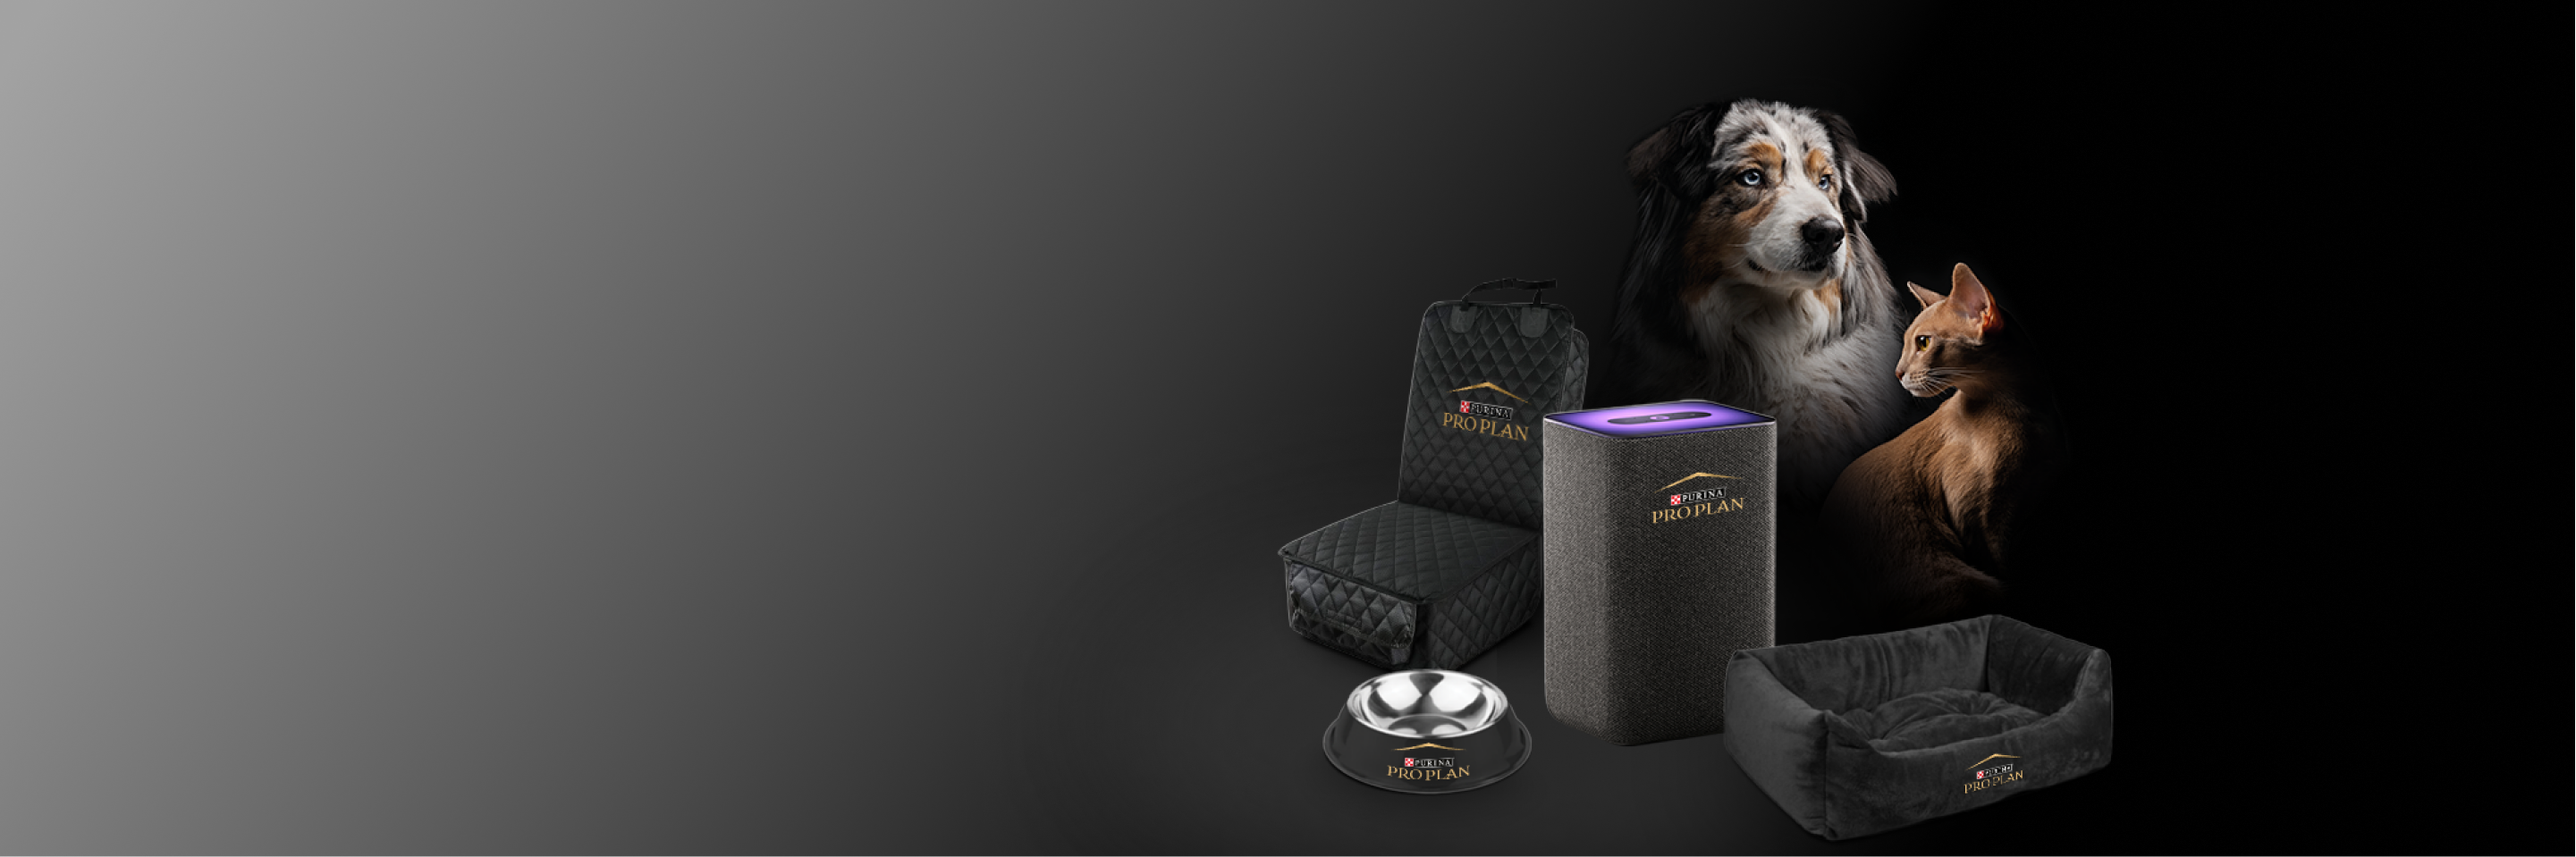
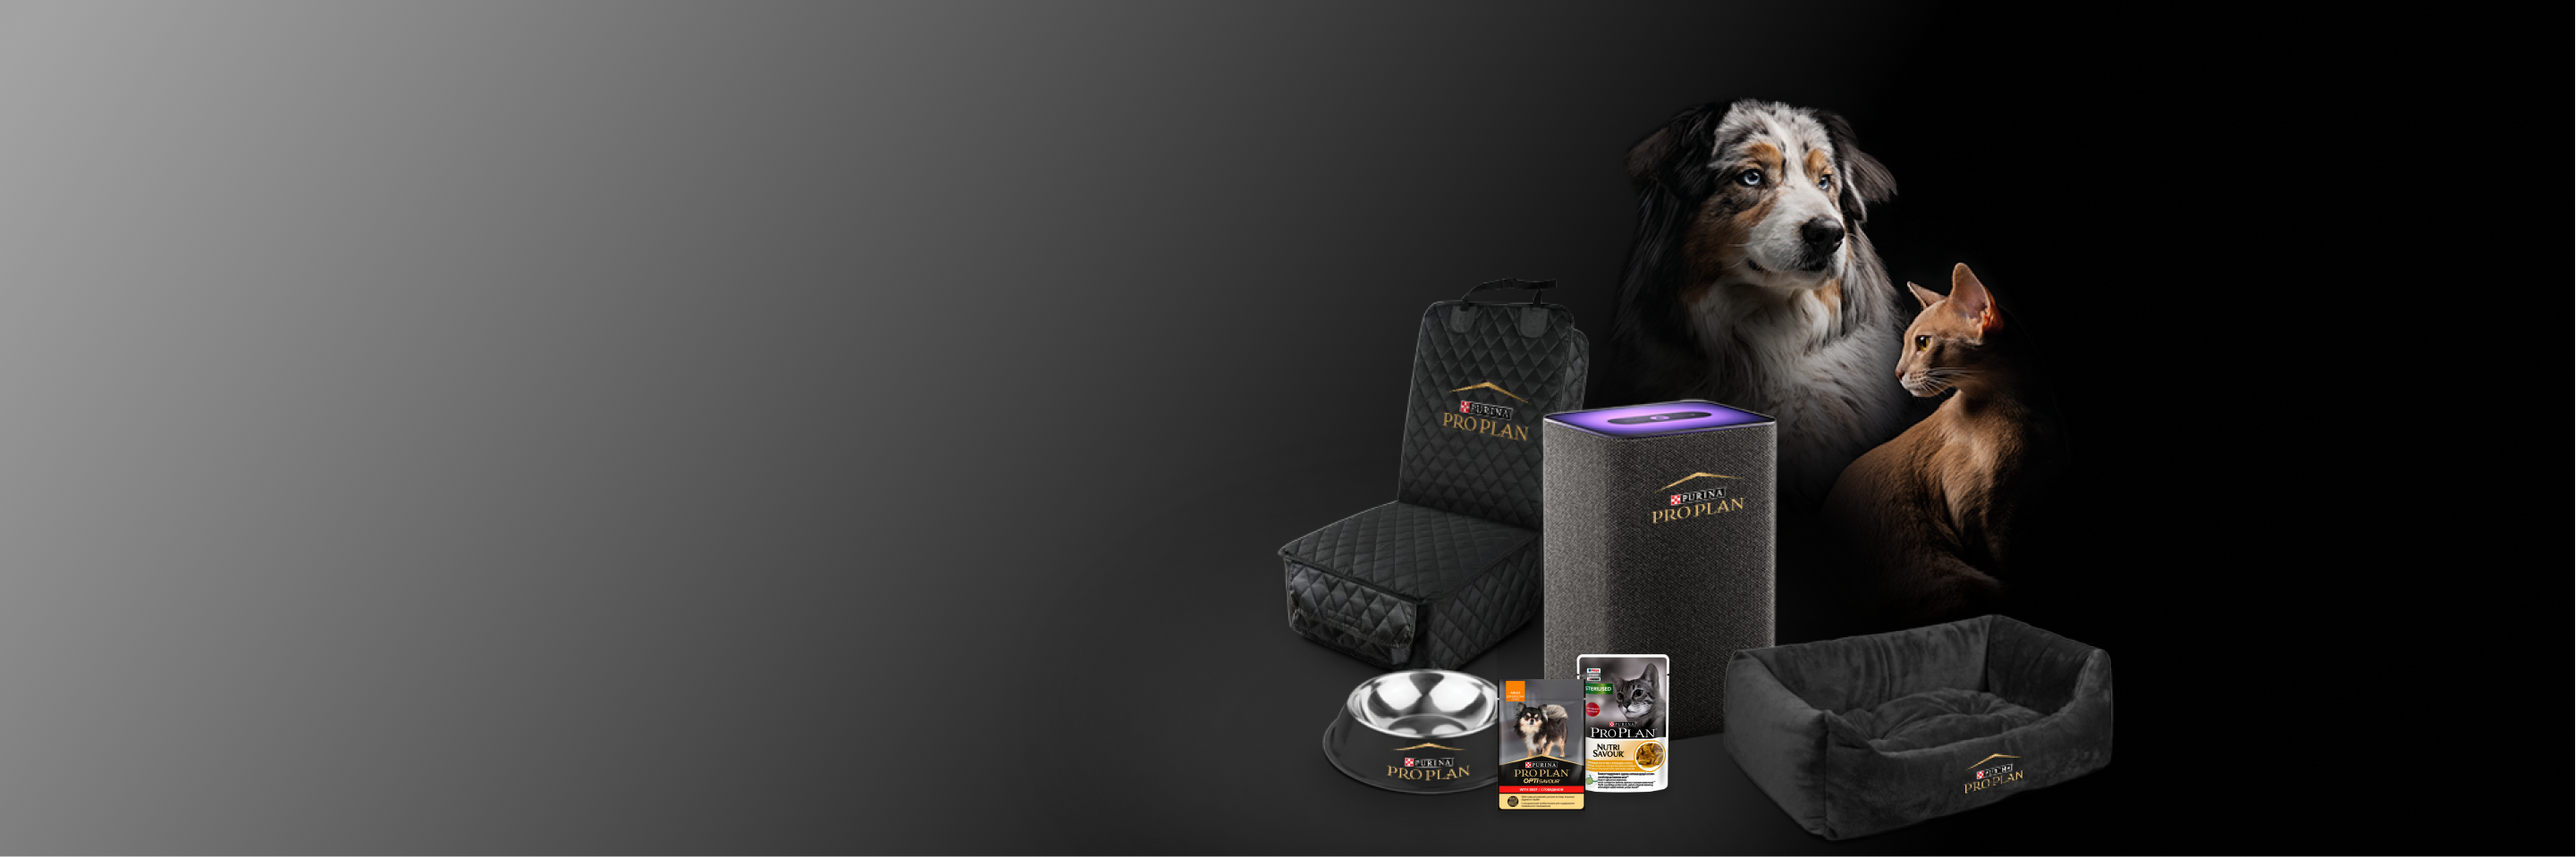
Update images, add elements to join section

Changed region(s): [[0.5623, 0.756, 0.656, 0.9677]]

diff --git a/app/assets/css/style.min.css b/app/assets/css/style.min.css
@@ -1,2 +1,2 @@
-:root{--clr-50:#000000;--clr-100:#1E1E1E;--clr-200:#353535;--clr-300:#EC1E28;--clr-400:#FCD072;--clr-500:#F5CB6F;--clr-600:#FFFFFF;--body-bg:var(--clr-100);--header-bg:var(--clr-200);--footer-bg:var(--clr-200);--gr-100:linear-gradient(90deg, #A48749 -5%, #FCD072 50%, #A48749 100%);--ff-100:"Open Sans",sans-serif;--ff-200:"Playfair Display",serif}body{background:var(--body-bg);font-family:var(--ff-100);font-weight:400;color:var(--clr-600);font-size:16px;line-height:1.2em}a:not([class]){color:var(--clr-600);transition:all .3s}a:not([class]):hover{color:var(--clr-400)}.container{max-width:1320px;margin:0 auto}@media(max-width:1359px){.container{padding:0 20px}}.hidden{display:none!important}.text{font-size:16px;line-height:1.2em}.title{font-weight:400;color:var(--clr-600)}.title--large{font-size:70px;line-height:110%}.title--medium{font-size:48px;line-height:95%}.title--small{font-size:24px;line-height:130%}.title--center{text-align:center}.subtitle{font-size:32px;line-height:120%;color:var(--clr-400)}@media(max-width:1439px){.title--large{font-size:clamp(50px,5vw,70px)}.subtitle{font-size:clamp(24px,2.4vw,32px)}}.btn{display:inline-block;background:var(--gr-100);background-size:101%;background-position:center center;border:1px solid var(--clr-500);border-radius:70px;text-transform:uppercase;color:var(--clr-50);padding:20px 40px;transition:all .3s}.btn:hover{background-size:150%}.header{background:var(--header-bg);padding:16px 0;font-size:16px;line-height:22px}.header-flex{display:flex;align-items:center;justify-content:space-between}.header-nav-list{padding:0;list-style:none;display:flex;align-items:center;justify-content:flex-start;-moz-column-gap:136px;column-gap:136px}.header-nav-item{color:var(--clr-600)}.header-nav-item a{color:inherit}.header-langs{padding:0;list-style:none;display:flex;align-items:center;justify-content:flex-start;-moz-column-gap:10px;column-gap:10px}.header-lang{color:var(--clr-600)}.header-lang--active{color:var(--clr-400)}.header-lang a{color:inherit}@media(max-width:1439px){.header-nav-list{-moz-column-gap:clamp(20px,8vw,130px);column-gap:clamp(20px,8vw,130px)}}.hero{padding:90px 0;background:url(../img/hero-bg-1920.png) center top/cover no-repeat}@media(max-width:1460px){.hero{background-image:url(../img/hero-bg.png)}}.hero-text{color:var(--clr-400)}.hero-btn,.hero-subtitle,.hero-text{margin-top:25px}.hero-wrap{max-width:54%}.hero-subtitle{max-width:560px}@media(max-width:1439px){.hero-wrap{max-width:52%}}.join{padding:100px 0;background:url(../img/join-bg.png) center center/cover no-repeat}.join-wrap{margin-top:80px;display:flex;align-items:center;justify-content:center;flex-direction:column;row-gap:50px;counter-reset:card}.join-card{background:linear-gradient(92.81deg,#262626 12%,#000 96%);border:1px solid var(--clr-400);border-radius:15px;display:flex;align-items:center;justify-content:space-between;width:100%;max-width:760px;min-height:240px;counter-increment:card}.join-card-side{max-width:395px;padding:30px 0 30px 85px}.join-card-title{position:relative}.join-card-title::before{content:counter(card);position:absolute;color:var(--clr-500);font-family:var(--ff-200);font-size:4.75em;width:.421em;top:8px;left:-.59em;text-align:center}.join-card-text{margin-top:10px;color:var(--clr-500)}.join-card-img{align-self:flex-end;max-width:360px}
[1 lines of base64/hex data omitted]
+:root{--clr-50:#000000;--clr-100:#1E1E1E;--clr-200:#353535;--clr-300:#EC1E28;--clr-400:#FCD072;--clr-500:#F5CB6F;--clr-600:#FFFFFF;--body-bg:var(--clr-100);--header-bg:var(--clr-200);--footer-bg:var(--clr-200);--gr-100:linear-gradient(90deg, #A48749 -5%, #FCD072 50%, #A48749 100%);--ff-100:"Open Sans",sans-serif;--ff-200:"Playfair Display",serif}body{background:var(--body-bg);font-family:var(--ff-100);font-weight:400;color:var(--clr-600);font-size:16px;line-height:1.2em}a:not([class]){color:var(--clr-600);transition:all .3s}a:not([class]):hover{color:var(--clr-400)}.container{max-width:1320px;margin:0 auto}@media(max-width:1359px){.container{padding:0 20px}}.hidden{display:none!important}.text{font-size:16px;line-height:1.2em}.title{font-weight:400;color:var(--clr-600)}.title--large{font-size:70px;line-height:110%}.title--medium{font-size:48px;line-height:95%}.title--small{font-size:24px;line-height:130%}.title--center{text-align:center}.subtitle{font-size:32px;line-height:120%;color:var(--clr-400)}@media(max-width:1439px){.title--large{font-size:clamp(50px,5vw,70px)}.subtitle{font-size:clamp(24px,2.4vw,32px)}}.btn{display:inline-block;background:var(--gr-100);background-size:101%;background-position:center center;border:1px solid var(--clr-500);border-radius:70px;text-transform:uppercase;color:var(--clr-50);padding:20px 40px;text-align:center;transition:all .3s}.btn:hover{background-size:150%}.header{background:var(--header-bg);padding:16px 0;font-size:16px;line-height:22px}.header-flex{display:flex;align-items:center;justify-content:space-between}.header-nav-list{padding:0;list-style:none;display:flex;align-items:center;justify-content:flex-start;-moz-column-gap:136px;column-gap:136px}.header-nav-item{color:var(--clr-600)}.header-nav-item a{color:inherit}.header-langs{padding:0;list-style:none;display:flex;align-items:center;justify-content:flex-start;-moz-column-gap:10px;column-gap:10px}.header-lang{color:var(--clr-600)}.header-lang--active{color:var(--clr-400)}.header-lang a{color:inherit}@media(max-width:1439px){.header-nav-list{-moz-column-gap:clamp(20px,8vw,130px);column-gap:clamp(20px,8vw,130px)}}.hero{padding:90px 0;background:url(../img/hero-bg-1920.png) center top/cover no-repeat}@media(max-width:1460px){.hero{background-image:url(../img/hero-bg.png)}}.hero-text{color:var(--clr-400)}.hero-btn,.hero-subtitle,.hero-text{margin-top:25px}.hero-wrap{max-width:54%}.hero-subtitle{max-width:560px}@media(max-width:1439px){.hero-wrap{max-width:52%}}.join{padding:100px 0;background:url(../img/join-bg.png) center bottom/cover no-repeat}.join-wrap{margin-top:80px;display:flex;align-items:center;justify-content:center;flex-direction:column;row-gap:50px;counter-reset:card}.join-card{background:linear-gradient(92.81deg,#262626 12%,#000 96%);border:1px solid var(--clr-400);border-radius:15px;display:flex;align-items:center;justify-content:space-between;width:100%;max-width:760px;min-height:240px;counter-increment:card}.join-card-side{max-width:395px;padding:30px 0 30px 85px}.join-card-title{position:relative}.join-card-title::before{content:counter(card);position:absolute;color:var(--clr-500);font-family:var(--ff-200);font-size:4.75em;width:.421em;top:8px;left:-.59em;text-align:center}.join-card-text{margin-top:10px;color:var(--clr-500)}.join-card-img{max-width:360px}.join-card-img--align-self-end{align-self:flex-end}.join-subtitle{max-width:580px;margin:50px auto 0;text-align:center}.join-btn{display:block;margin:50px auto 0;max-width:max-content}
[1 lines of base64/hex data omitted]

diff --git a/app/index.html b/app/index.html
@@ -75,7 +75,7 @@
                         <h3 class="join-card-title title title--small">Обменивайте чек <br> на скретч-карту у промоутера</h3>
                         <div class="text join-card-text"></div>
                     </div>
-                    <div class="join-card-img">
+                    <div class="join-card-img join-card-img--align-self-end">
                         <img src="assets/img/join-card-2.png" alt="card">
                     </div>
                 </div>
@@ -89,6 +89,8 @@
                     </div>
                 </div>
             </div>
+            <div class="subtitle join-subtitle">В акции участвует весь ассортимент корма PRO PLAN</div>
+            <a href="#" class="btn join-btn">Ассортимент pro-plan</a>
         </div>
     </section>
 </body>

diff --git a/app/assets/css/sass/components/_join.scss b/app/assets/css/sass/components/_join.scss
@@ -1,6 +1,6 @@
 .join {
     padding: 100px 0;
-    background: url('../img/join-bg.png') center center / cover no-repeat;
+    background: url('../img/join-bg.png') center bottom / cover no-repeat;
     &-wrap {
         margin-top: 80px;
         @include flex(center, center);
@@ -40,8 +40,20 @@
             color: var(--clr-500);
         }
         &-img {
-            align-self: flex-end;
             max-width: 360px;
+            &--align-self-end {
+                align-self: flex-end;
+            }
         }
+    }
+    &-subtitle {
+        max-width: 580px;
+        margin: 50px auto 0;
+        text-align: center;
+    }
+    &-btn {
+        display: block;
+        margin: 50px auto 0;
+        max-width: max-content;
     }
 }

diff --git a/app/assets/css/sass/components/_btn.scss b/app/assets/css/sass/components/_btn.scss
@@ -8,6 +8,7 @@
     text-transform: uppercase;
     color: var(--clr-50);
     padding: 20px 40px;
+    text-align: center;
     transition: all .3s;
     &:hover {
         background-size: 150%;
